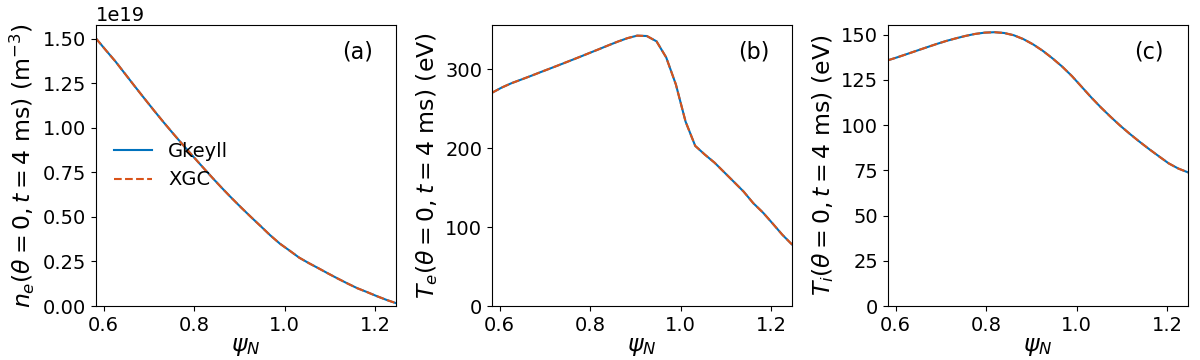
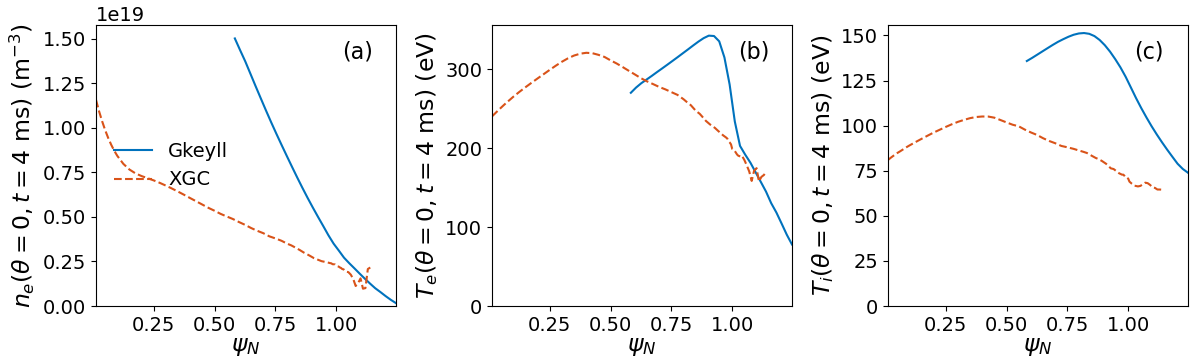
Replace figures with fixed Gkeyll Ti

diff --git a/comp/compare_gkeyll_xgc_ltx_2x.py b/comp/compare_gkeyll_xgc_ltx_2x.py
@@ -23,9 +23,9 @@ import sys #[ For error exit.
 sys.path.insert(0, '../util/')
 import ltx_common_util as lcu
 
-plot_grids_RZ_li863mg           = True  #[ Grids on the R-Z plane of 863 mg simulation.
+plot_grids_RZ_li863mg           = False  #[ Grids on the R-Z plane of 863 mg simulation.
 plot_den_omp_init_li863mg       = False  #[ Initial n at outboard midplane (OMP) of 863 mg simulation.
-plot_den_temp_omp_init_li863mg  = False  #[ Initial n and T profiles at OMP.
+plot_den_temp_omp_init_li863mg  = True  #[ Initial n and T profiles at OMP.
 plot_den_temp_omp_final_li863mg = False  #[ Final n and T profiles at OMP.
 
 gke_data_dir = '../gkeyll/data/' #[ Location of reduced Gkeyll data.
